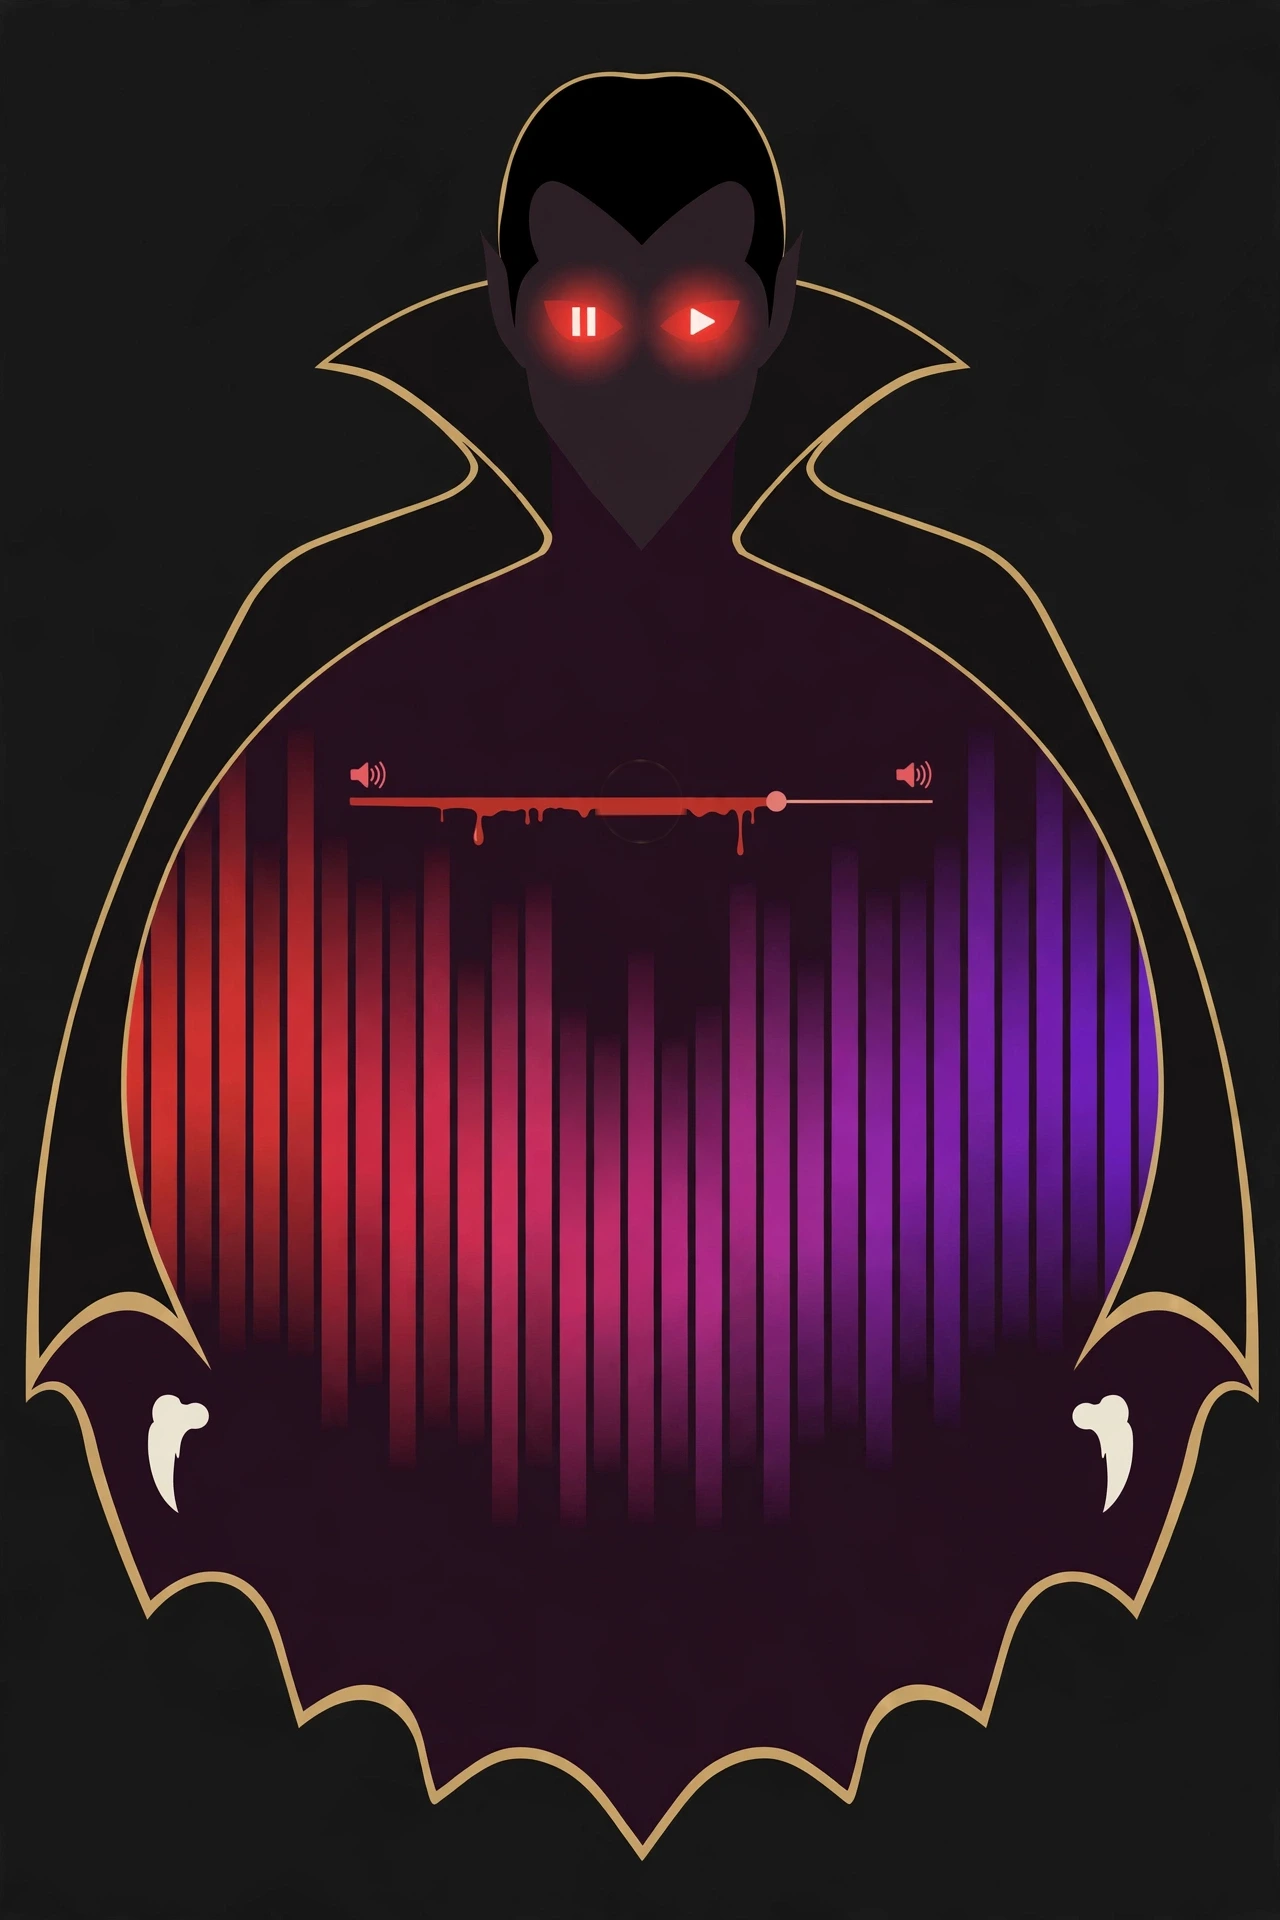
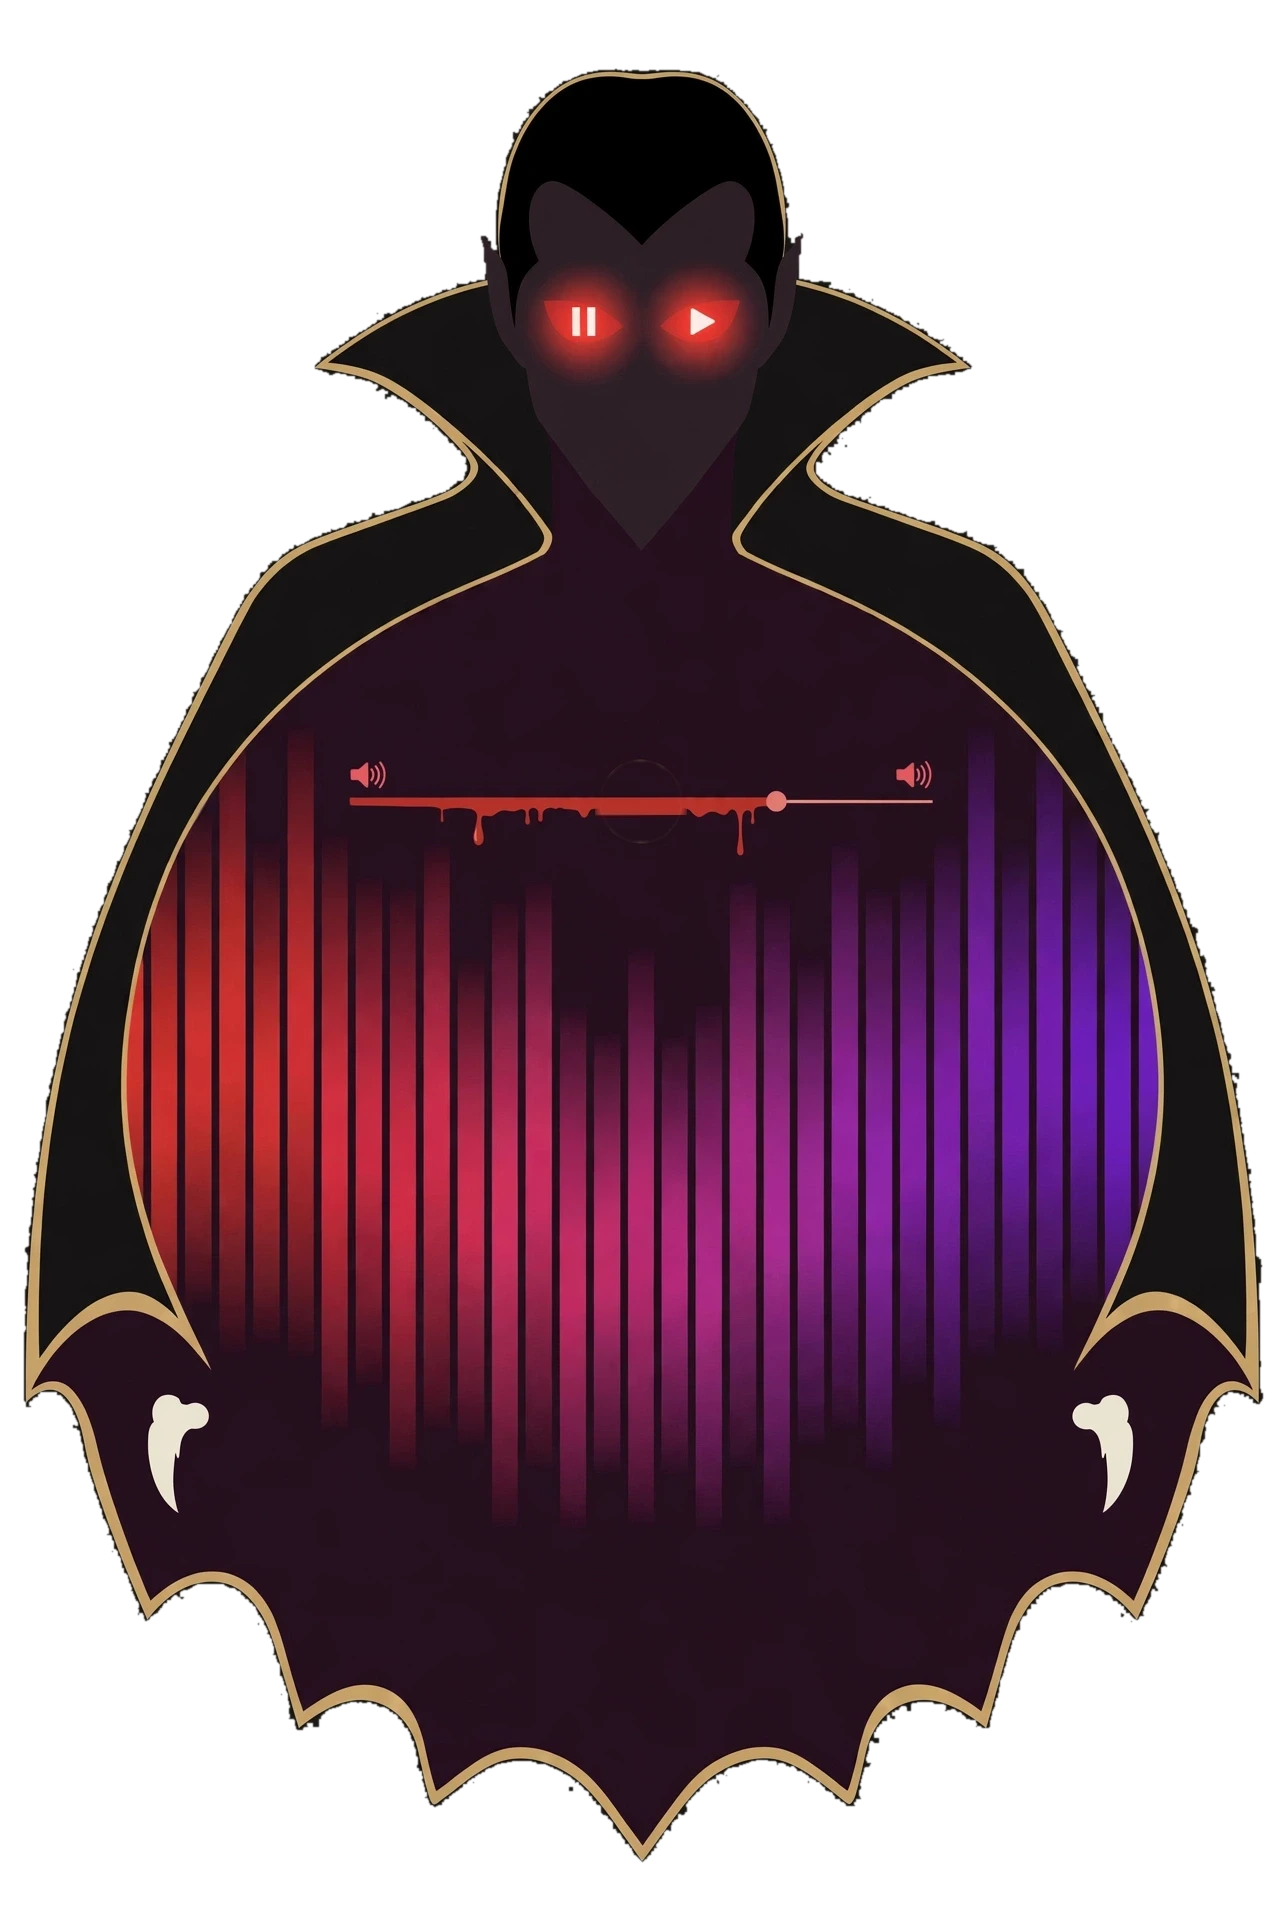
fix(dracula): true transparent plate — kill the faint square
The plate art has a baked-in dark backdrop, and the hand-traced
clip-path polygon only approximated the outline, so slivers of that
backdrop survived as a faint square around the skin. The backdrop is
now flood-filled out of the plate itself (gold trim is a closed
boundary), the webp carries a real alpha channel, and the clip-path
is removed. Verified on white and bright teal composites.

diff --git a/src/renderer/style.css b/src/renderer/style.css
@@ -627,7 +627,8 @@ input[type="range"]::-moz-range-thumb {
   background-image: var(--dr-frame-url);
   background-size: 100% 100%;
   background-repeat: no-repeat;
-  clip-path: polygon(50% 0.8%, 57.5% 4.5%, 61% 12.5%, 75.5% 17.5%, 71% 27%, 88% 38%, 97.5% 55%, 97.8% 71%, 98% 73.5%, 88.5% 82.5%, 85% 88%, 76% 85.5%, 72.5% 90%, 63% 87%, 50% 96.5%, 37% 87%, 27.5% 90%, 24% 85.5%, 15% 88%, 11.5% 82.5%, 2% 73.5%, 2.2% 71%, 2.5% 55%, 12% 38%, 29% 27%, 24.5% 17.5%, 39% 12.5%, 42.5% 4.5%);
+  /* No clip-path: the plate itself now carries a real alpha channel
+     (backdrop flood-filled out), so the character edge is exact. */
   filter: none;
 }
 .dracula-skin .dr-body > *:not(.dr-silhouette):not(.dr-head) { position: absolute; }

diff --git a/AGENTS.md b/AGENTS.md
@@ -73,6 +73,7 @@ Costume Contest: a haunting UI that is polished/unforgettable AND where the spoo
 - **Character-as-frame — 2026-11-09 (Lan's design call):** skins are full character silhouettes, never rectangular cards — the monster's body is the frame, and the frameless transparent window shows the desktop outside it. Reference renders live in the local sync's `design-refs/` (not committed). Frankenstein and Swamp Thing still use rectangular bodies — silhouette passes for them are open work.
 - **Image frame + separated mechanism — 2026-11-09 (Lan's direction, supersedes the hand-drawn SVG silhouette for Dracula):** the approved artwork itself is the frame. A text-free edit of the reference ships as `src/renderer/assets/dracula-frame.webp`, clipped to the character outline via CSS `clip-path`; each painted element is a live overlay control — eyes = play/pause hotspot + playing glow, blood line = seek (transparent track, drip thumb), medallion = volume (drag / wheel / arrow keys; a gold orbit dot circles it to show the value), cape interior = live visualizer over a settling panel, fangs = prev/next hotspots, real title + playlist rendered over the art. Hotspot coordinates were verified by compositing the control boxes over the plate. Lesson earned the same day: match the approved reference's proportions, not just its ingredient list — a from-scratch SVG redraw read as "lame" next to the generated art.
 - **Separated element layers — 2026-11-09:** the plate's eyes, medallion and fangs are now real transparent layers (`src/renderer/assets/dracula-*.png`, full-canvas so they stack pixel-exact), extracted by color segmentation (SAM was attempted first; the PyTorch download is proxy-blocked in the build sandbox, and for flat art the color masks are crisper anyway). The medallion is erased from the shipped plate (stretch-inpaint) so the extracted layer genuinely rotates with volume; eye layers pulse via CSS filter while playing; fang layers glow when their hotspot is hovered/pressed. Layers recombine over the cleaned plate pixel-identical to the original art (verified by composite).
+- **True transparency — 2026-11-09:** the plate's baked-in dark backdrop survived the hand-traced CSS `clip-path` as a faint square around the character (Lan spotted it on Windows). Fix: the backdrop is flood-filled out of the plate itself (the gold trim is a closed boundary; backdrop = neutral grey connected to the image borders), so `dracula-frame.webp` now carries a real alpha channel and the `clip-path` is gone. Verified by compositing the plate on white and bright teal — clean character edge, no rectangle. Lesson: never approximate an outline with a polygon when the art can carry its own alpha.
 
 ## Open decisions
 1. Demo tracks: source and filenames for the 3 bundled royalty-free tracks (drop into `public/tracks/`).
